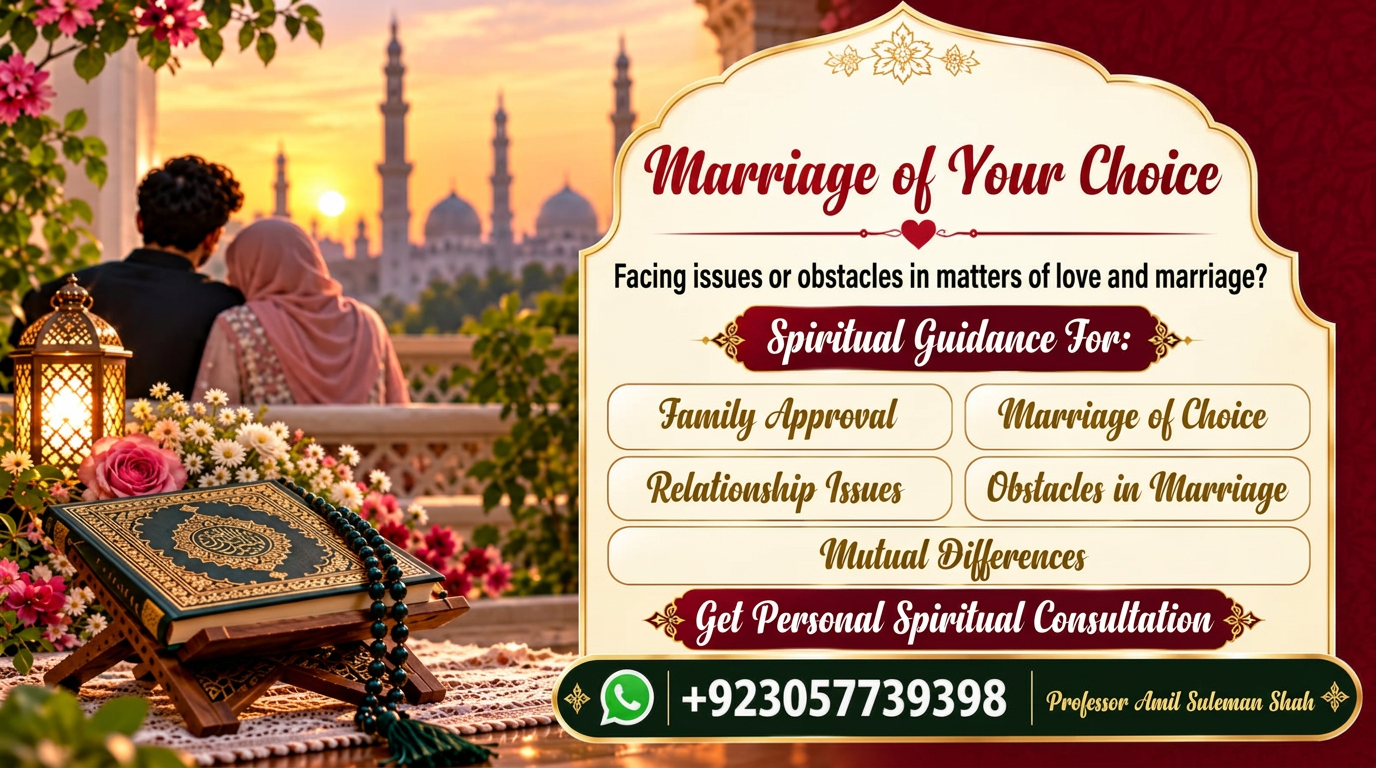
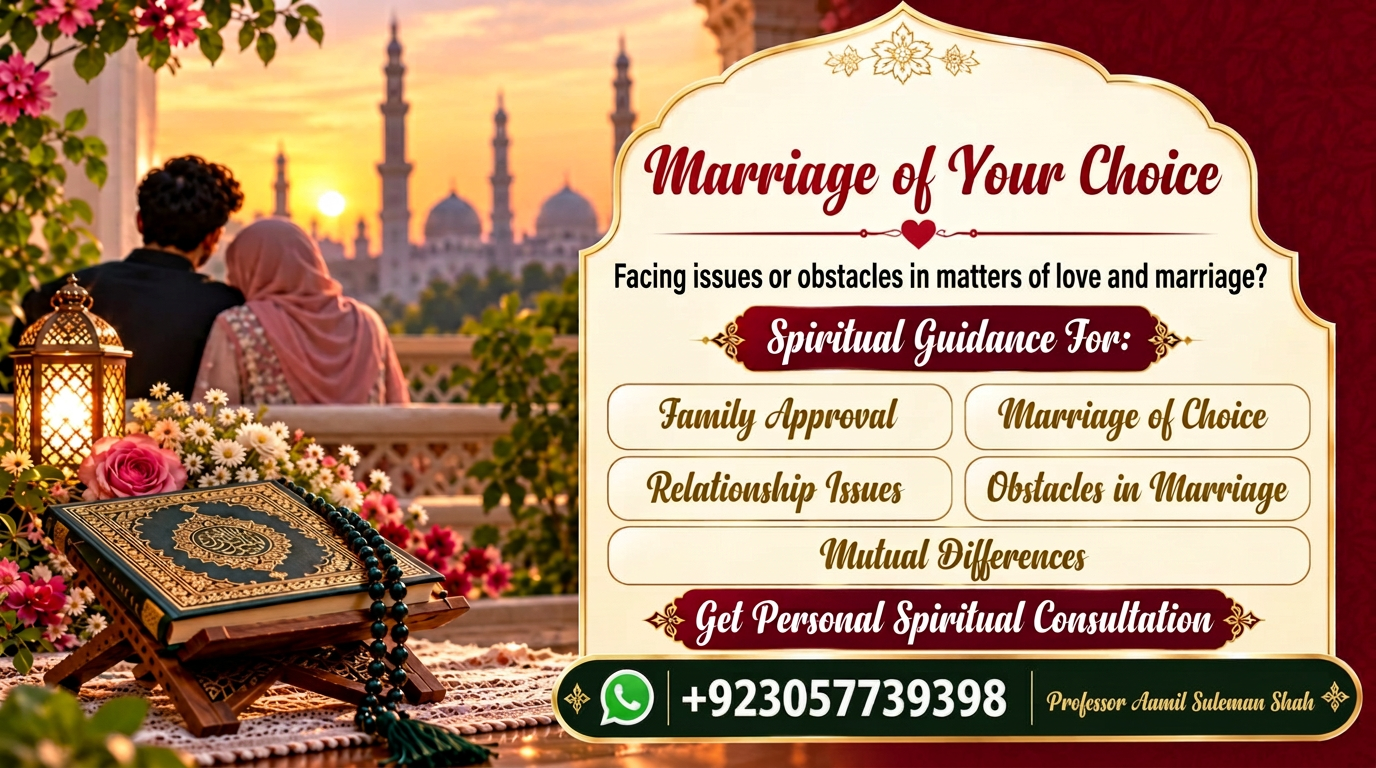
Changes

diff --git a/src/components/site.tsx b/src/components/site.tsx
@@ -1,27 +1,27 @@
 import { useState } from 'react';
 import { Link } from '@tanstack/react-router';
-import { ArrowUpLeft, BookOpen, BriefcaseBusiness, HeartHandshake, House, Menu, MessageCircle, MoonStar, Phone, Sparkles, Users, Video, X } from 'lucide-react';
+import { ArrowUpRight, BookOpen, BriefcaseBusiness, HeartHandshake, House, Menu, MessageCircle, MoonStar, Phone, Sparkles, Users, Video, X } from 'lucide-react';
 import { Button } from '@/components/ui/button';
 import { site, services } from '@/lib/site-content';
 
 export function ContactButtons({ call = true }: { call?: boolean }) {
-  return <div className="contact-buttons"><Button variant="whatsapp" size="lg" asChild><a href={site.whatsapp} target="_blank" rel="noopener noreferrer"><MessageCircle /> <span className="urdu">WhatsApp پر رابطہ کریں</span></a></Button>{call && <Button size="lg" asChild><a href={site.call}><Phone /><span className="urdu">ابھی کال کریں</span></a></Button>}</div>;
+  return <div className="contact-buttons"><Button variant="whatsapp" size="lg" asChild><a href={site.whatsapp} target="_blank" rel="noopener noreferrer"><MessageCircle /> <span>Contact Us on WhatsApp</span></a></Button>{call && <Button size="lg" asChild><a href={site.call}><Phone /><span>Call Now</span></a></Button>}</div>;
 }
-const nav = [{ to: '/', text: 'ہوم', english: 'Home' }, { to: '/services', text: 'خدمات', english: 'Services' }, { to: '/about', text: 'ہمارے بارے میں', english: 'About' }, { to: '/contact', text: 'رابطہ کریں', english: 'Contact' }] as const;
+const nav = [{ to: '/', text: 'Home' }, { to: '/services', text: 'Services' }, { to: '/about', text: 'About' }, { to: '/contact', text: 'Contact Us' }] as const;
 export function Header() {
   const [open, setOpen] = useState(false);
-  return <><div className="topbar"><span>قرآن و سنت کی روشنی میں روحانی رہنمائی</span><a href={site.call} dir="ltr"><Phone size={12} /> {site.phone}</a></div><header className="site-header"><div className="header-inner"><Link to="/" className="brand"><span className="brand-symbol"><MoonStar /></span><div><div className="brand-urdu urdu">{site.name}</div><div className="brand-english">{site.english}</div></div></Link><nav className="desktop-nav">{nav.map(n => <Link key={n.to} to={n.to} activeProps={{ className: 'nav-active' }} activeOptions={{ exact: true }}><span className="urdu">{n.text}</span><small>{n.english}</small></Link>)}</nav><Button variant="goldOutline" asChild className="header-contact"><a href={site.whatsapp} target="_blank" rel="noopener noreferrer"><MessageCircle /><span>WhatsApp</span></a></Button><Button variant="ghost" size="icon" className="mobile-menu" aria-label={open ? 'Close menu' : 'Open menu'} onClick={() => setOpen(!open)}>{open ? <X /> : <Menu />}</Button></div>{open && <nav className="mobile-nav">{nav.map(n => <Link key={n.to} to={n.to} onClick={() => setOpen(false)} className="urdu">{n.text}</Link>)}</nav>}</header></>;
+  return <><div className="topbar"><span>Spiritual guidance in the light of the Quran and Sunnah</span><a href={site.call} dir="ltr"><Phone size={12} /> {site.phone}</a></div><header className="site-header"><div className="header-inner"><Link to="/" className="brand"><span className="brand-symbol"><MoonStar /></span><div><div className="brand-name display">{site.name}</div><div className="brand-english">{site.tagline}</div></div></Link><nav className="desktop-nav">{nav.map(n => <Link key={n.to} to={n.to} activeProps={{ className: 'nav-active' }} activeOptions={{ exact: true }}><span>{n.text}</span></Link>)}</nav><Button variant="goldOutline" asChild className="header-contact"><a href={site.whatsapp} target="_blank" rel="noopener noreferrer"><MessageCircle /><span>WhatsApp</span></a></Button><Button variant="ghost" size="icon" className="mobile-menu" aria-label={open ? 'Close menu' : 'Open menu'} onClick={() => setOpen(!open)}>{open ? <X /> : <Menu />}</Button></div>{open && <nav className="mobile-nav">{nav.map(n => <Link key={n.to} to={n.to} onClick={() => setOpen(false)}>{n.text}</Link>)}</nav>}</header></>;
 }
 export function SectionHeading({ eyebrow, title, description }: { eyebrow: string; title: string; description?: string }) {
-  return <div className="section-heading"><div className="eyebrow"><span />{eyebrow}<span /></div><h2 className="urdu">{title}</h2>{description && <p className="urdu">{description}</p>}</div>;
+  return <div className="section-heading"><div className="eyebrow"><span />{eyebrow}<span /></div><h2 className="display">{title}</h2>{description && <p>{description}</p>}</div>;
 }
 const serviceIcons = [MoonStar, HeartHandshake, House, Users, BriefcaseBusiness, Video];
 export function ServiceGrid() {
-  return <div className="service-grid">{services.map((name, i) => { const Icon = serviceIcons[i] ?? BookOpen; return <a href={site.whatsapp} target="_blank" rel="noopener noreferrer" className="service-card" key={name}><Icon /><h3 className="urdu">{name}</h3><span className="service-link urdu">مشاورت کے لیے رابطہ کریں <ArrowUpLeft size={16} /></span></a>; })}</div>;
+  return <div className="service-grid">{services.map((name, i) => { const Icon = serviceIcons[i] ?? BookOpen; return <a href={site.whatsapp} target="_blank" rel="noopener noreferrer" className="service-card" key={name}><Icon /><h3 className="display">{name}</h3><span className="service-link">Contact for consultation <ArrowUpRight size={16} /></span></a>; })}</div>;
 }
 export function ContactBand() {
-  return <section className="contact-band"><Sparkles size={24} /><h2 className="urdu">رہنمائی کے لیے پہلا قدم اٹھائیں</h2><p className="urdu">اپنے معاملے پر بات کرنے کے لیے ہم سے رابطہ کریں۔</p><ContactButtons /></section>;
+  return <section className="contact-band"><Sparkles size={24} /><h2 className="display">Take the First Step Towards Guidance</h2><p>Contact us to discuss your situation.</p><ContactButtons /></section>;
 }
 export function Footer() {
-  return <><footer><div className="footer-main"><Link to="/" className="footer-brand"><MoonStar /><span className="urdu">{site.name}</span></Link><nav>{nav.map(n => <Link key={n.to} to={n.to} className="urdu">{n.text}</Link>)}</nav><a href={site.call} dir="ltr"><Phone size={15} />{site.phone}</a></div><div className="footer-bottom"><span>© 2026 {site.english}</span><span className="urdu">اسلامی روحانی رہنمائی اور مشاورت</span></div></footer><Button variant="whatsapp" size="icon" asChild className="floating-whatsapp"><a href={site.whatsapp} target="_blank" rel="noopener noreferrer" aria-label="Contact on WhatsApp"><MessageCircle /></a></Button></>;
+  return <><footer><div className="footer-main"><Link to="/" className="footer-brand"><MoonStar /><span className="display">{site.name}</span></Link><nav>{nav.map(n => <Link key={n.to} to={n.to}>{n.text}</Link>)}</nav><a href={site.call} dir="ltr"><Phone size={15} />{site.phone}</a></div><div className="footer-bottom"><span>© 2026 {site.name}</span><span>Islamic spiritual guidance and consultation</span></div></footer><Button variant="whatsapp" size="icon" asChild className="floating-whatsapp"><a href={site.whatsapp} target="_blank" rel="noopener noreferrer" aria-label="Contact on WhatsApp"><MessageCircle /></a></Button></>;
 }

diff --git a/src/routes/index.tsx b/src/routes/index.tsx
@@ -1,13 +1,13 @@
 import { createFileRoute, Link } from '@tanstack/react-router';
-import { BookOpen, MessageCircle, ShieldCheck, ArrowUpLeft } from 'lucide-react';
+import { BookOpen, MessageCircle, ShieldCheck, ArrowUpRight } from 'lucide-react';
 import { Button } from '@/components/ui/button';
 import { ContactButtons, ContactBand, SectionHeading, ServiceGrid } from '@/components/site';
 import { features, pageHead, site } from '@/lib/site-content';
 
 export const Route = createFileRoute('/')({
-  head: () => pageHead('پروفیسر عامل سلیمان شاہ | اسلامی روحانی رہنمائی', 'استخارہ، ازدواجی معاملات، گھریلو مسائل اور آن لائن روحانی مشاورت کے لیے پروفیسر عامل سلیمان شاہ سے رابطہ کریں۔'),
+  head: () => pageHead('Professor Aamil Suleman Shah | Islamic Spiritual Guidance', 'Contact Professor Aamil Suleman Shah for Istikhara, marriage and household matters, and online spiritual consultation.'),
   component: Index,
 });
 function Index() {
-  return <main><section className="home-hero"><a href={site.whatsapp} target="_blank" rel="noopener noreferrer" aria-label="Consult Professor Aamil Suleman Shah on WhatsApp"><img className="banner" src={site.banner} width={1536} height={768} alt="روحانی علاج — پروفیسر عامل سلیمان شاہ" fetchPriority="high" /></a><div className="hero-caption"><div className="eyebrow"><span />IN THE LIGHT OF QURAN & SUNNAH<span /></div><h1 className="urdu">اسلامی روحانی رہنمائی</h1><p className="urdu">زندگی کے اہم معاملات میں قرآن و سنت کی روشنی میں رہنمائی حاصل کریں۔</p><p className="supporting urdu">استخارہ، ازدواجی معاملات، گھریلو مسائل اور دیگر زندگی کے معاملات میں آن لائن مشاورت کے لیے رابطہ کریں۔</p><ContactButtons /></div></section><div className="trust-strip"><div><BookOpen /><span className="urdu">قرآن و سنت کی روشنی میں</span></div><div><ShieldCheck /><span className="urdu">ذاتی معاملات میں مشاورت</span></div><div><MessageCircle /><span className="urdu">آن لائن رابطے کی سہولت</span></div></div><section className="features"><SectionHeading eyebrow="A PATH TO GUIDANCE" title="آپ کی زندگی، آپ کے اہم معاملات" description="ہر معاملے میں سوچ سمجھ کر، رہنمائی کے ساتھ آگے بڑھیں۔" />{features.map((feature, i) => <article className="feature" key={feature.title}><div className="feature-image"><img src={feature.image} alt={feature.title} loading="lazy" width={1280} height={720} /><span className="feature-number">0{i + 1}</span></div><div className="feature-copy"><div className="eyebrow">{feature.label}</div><h3 className="urdu">{feature.title}</h3><p className="urdu">{feature.description}</p><ContactButtons call={i === 3} /></div></article>)}</section><section className="services-section"><div className="section-inner"><SectionHeading eyebrow="OUR SERVICES" title="ہماری خدمات" description="زندگی کے مختلف معاملات کے لیے روحانی رہنمائی اور مشاورت" /><ServiceGrid /></div></section><section className="about-preview"><SectionHeading eyebrow="ABOUT" title="پروفیسر عامل سلیمان شاہ کے بارے میں" /><p className="urdu">اسلامی روحانی رہنمائی، استخارہ اور زندگی کے اہم معاملات میں مشاورت کے لیے پروفیسر عامل سلیمان شاہ سے رابطہ کریں۔ اپنے معاملے پر بات کرنے کے لیے فون اور واٹس ایپ کی سہولت دستیاب ہے۔</p><Button variant="goldOutline" asChild><Link to="/about"><ArrowUpLeft /><span className="urdu">مزید جانیں</span></Link></Button></section><ContactBand /></main>;
+  return <main><section className="home-hero"><a href={site.whatsapp} target="_blank" rel="noopener noreferrer" aria-label="Consult Professor Aamil Suleman Shah on WhatsApp"><img className="banner" src={site.banner} width={1536} height={768} alt="Spiritual Healing — Professor Aamil Suleman Shah" fetchPriority="high" /></a><div className="hero-caption"><div className="eyebrow"><span />IN THE LIGHT OF QURAN & SUNNAH<span /></div><h1 className="display">Islamic Spiritual Guidance</h1><p>Receive guidance on the important matters of your life in the light of the Quran and Sunnah.</p><p className="supporting">Contact us for online consultation on Istikhara, marital matters, household problems and other life concerns.</p><ContactButtons /></div></section><div className="trust-strip"><div><BookOpen /><span>In the light of the Quran & Sunnah</span></div><div><ShieldCheck /><span>Consultation on personal matters</span></div><div><MessageCircle /><span>Online consultation available</span></div></div><section className="features"><SectionHeading eyebrow="A PATH TO GUIDANCE" title="Your Life, Your Important Matters" description="Move forward in every matter thoughtfully, with guidance." />{features.map((feature, i) => <article className="feature" key={feature.title}><div className="feature-image"><img src={feature.image} alt={feature.title} loading="lazy" width={1280} height={720} /><span className="feature-number">0{i + 1}</span></div><div className="feature-copy"><div className="eyebrow">{feature.label}</div><h3 className="display">{feature.title}</h3><p>{feature.description}</p><ContactButtons call={i === 3} /></div></article>)}</section><section className="services-section"><div className="section-inner"><SectionHeading eyebrow="OUR SERVICES" title="Our Services" description="Spiritual guidance and consultation for many areas of life" /><ServiceGrid /></div></section><section className="about-preview"><SectionHeading eyebrow="ABOUT" title="About Professor Aamil Suleman Shah" /><p>Contact Professor Aamil Suleman Shah for Islamic spiritual guidance, Istikhara and consultation on the important matters of life. Phone and WhatsApp are available to discuss your situation.</p><Button variant="goldOutline" asChild><Link to="/about"><span>Learn More</span><ArrowUpRight /></Link></Button></section><ContactBand /></main>;
 }

diff --git a/src/lib/site-content.ts b/src/lib/site-content.ts
@@ -1,17 +1,17 @@
-import banner from '@/assets/spiritual-banner.jpeg';
-import marriage from '@/assets/marriage.png';
-import family from '@/assets/family.png';
-import consultation from '@/assets/consultation.png';
+import banner from '@/assets/spiritual-banner-en.jpg';
+import marriage from '@/assets/marriage-en.jpg';
+import family from '@/assets/family-en.jpg';
+import consultation from '@/assets/consultation-en.jpg';
 import guidance from '@/assets/guidance.jpg';
 
-export const site = { name: 'پروفیسر عامل سلیمان شاہ', english: 'Professor Aamil Suleman Shah', phone: '0092 305 7739398', call: 'tel:+923057739398', whatsapp: 'https://wa.me/923057739398', banner };
+export const site = { name: 'Professor Aamil Suleman Shah', tagline: 'Islamic Spiritual Guidance', phone: '0092 305 7739398', call: 'tel:+923057739398', whatsapp: 'https://wa.me/923057739398', banner };
 export const features = [
-  { title: 'اسلامی روحانی رہنمائی', label: 'SPIRITUAL GUIDANCE', image: guidance, description: 'زندگی کے اہم معاملات میں قرآن و سنت کی روشنی میں رہنمائی اور مشاورت کے لیے رابطہ کریں۔' },
-  { title: 'استخارہ اور اہم فیصلے', label: 'ISTIKHARA & LIFE DECISIONS', image: marriage, description: 'رشتوں اور زندگی کے اہم فیصلوں کے بارے میں استخارہ اور روحانی مشاورت حاصل کریں۔' },
-  { title: 'ازدواجی اور گھریلو مسائل', label: 'MARRIAGE & FAMILY', image: family, description: 'ازدواجی معاملات، گھریلو اختلافات اور رشتوں سے متعلق مسائل پر مشاورت کے لیے رابطہ کریں۔' },
-  { title: 'آن لائن روحانی مشاورت', label: 'ONLINE CONSULTATION', image: consultation, description: 'جہاں بھی ہوں، فون یا واٹس ایپ کے ذریعے اپنے معاملے پر بات کریں اور رہنمائی حاصل کریں۔' },
+  { title: 'Spiritual Guidance', label: 'IN THE LIGHT OF QURAN & SUNNAH', image: guidance, description: 'Contact us for guidance and consultation on the important matters of your life, in the light of the Quran and Sunnah.' },
+  { title: 'Istikhara & Life Decisions', label: 'ISTIKHARA', image: marriage, description: 'Receive Istikhara and spiritual consultation for marriage proposals, relationships and other important life decisions.' },
+  { title: 'Marriage & Family Guidance', label: 'MARRIAGE & FAMILY', image: family, description: 'Get in touch for consultation on marital matters, household disagreements and relationship concerns.' },
+  { title: 'Online Consultation', label: 'ONLINE CONSULTATION', image: consultation, description: 'Wherever you are, discuss your situation by phone or WhatsApp and receive guidance.' },
 ];
-export const services = ['استخارہ', 'ازدواجی رہنمائی', 'گھریلو مسائل', 'رشتوں سے متعلق مشاورت', 'کاروباری معاملات میں رہنمائی', 'آن لائن مشاورت'];
+export const services = ['Istikhara', 'Marriage Guidance', 'Household Problems', 'Relationship Consultation', 'Business Guidance', 'Online Consultation'];
 export function pageHead(title: string, description: string) {
   return { meta: [{ title }, { name: 'description', content: description }, { property: 'og:title', content: title }, { property: 'og:description', content: description }, { property: 'og:type', content: 'website' }, { name: 'twitter:card', content: 'summary_large_image' }] };
 }

diff --git a/src/routes/about.tsx b/src/routes/about.tsx
@@ -1,5 +1,5 @@
 import { createFileRoute } from '@tanstack/react-router';
 import { ContactBand } from '@/components/site';
 import { pageHead } from '@/lib/site-content';
-export const Route = createFileRoute('/about')({ head: () => pageHead('ہمارے بارے میں | پروفیسر عامل سلیمان شاہ', 'پروفیسر عامل سلیمان شاہ سے اسلامی روحانی رہنمائی اور زندگی کے اہم معاملات پر مشاورت کے لیے رابطہ کریں۔'), component: AboutPage });
-function AboutPage() { return <main><section className="content-page"><div className="eyebrow">ABOUT PROFESSOR AAMIL SULEMAN SHAH</div><h1 className="urdu">پروفیسر عامل سلیمان شاہ کے بارے میں</h1><div className="about-content urdu"><p>اسلامی روحانی رہنمائی، استخارہ اور زندگی کے اہم معاملات میں مشاورت کے لیے پروفیسر عامل سلیمان شاہ سے رابطہ کریں۔</p><p>ازدواجی معاملات، گھریلو مسائل، رشتوں اور کاروباری معاملات میں رہنمائی حاصل کرنے کے لیے فون یا واٹس ایپ کے ذریعے اپنا معاملہ بیان کریں۔</p><h2>آن لائن مشاورت</h2><p>آن لائن رابطے کی سہولت کے ذریعے آپ جہاں بھی ہوں، مشاورت کے لیے رابطہ کر سکتے ہیں۔</p></div></section><ContactBand /></main>; }
+export const Route = createFileRoute('/about')({ head: () => pageHead('About | Professor Aamil Suleman Shah', 'Contact Professor Aamil Suleman Shah for Islamic spiritual guidance and consultation on important life matters.'), component: AboutPage });
+function AboutPage() { return <main><section className="content-page"><div className="eyebrow">ABOUT PROFESSOR AAMIL SULEMAN SHAH</div><h1 className="display">About Professor Aamil Suleman Shah</h1><div className="about-content"><p>Contact Professor Aamil Suleman Shah for Islamic spiritual guidance, Istikhara and consultation on the important matters of life.</p><p>To receive guidance on marital matters, household problems, relationships and business affairs, describe your situation by phone or WhatsApp.</p><h2 className="display">Online Consultation</h2><p>With online consultation, you can get in touch wherever you are.</p></div></section><ContactBand /></main>; }

diff --git a/src/routes/contact.tsx b/src/routes/contact.tsx
@@ -2,5 +2,5 @@ import { createFileRoute } from '@tanstack/react-router';
 import { MoonStar } from 'lucide-react';
 import { ContactButtons } from '@/components/site';
 import { pageHead, site } from '@/lib/site-content';
-export const Route = createFileRoute('/contact')({ head: () => pageHead('رابطہ کریں | پروفیسر عامل سلیمان شاہ', 'روحانی مشاورت کے لیے 0092 305 7739398 پر کال کریں یا واٹس ایپ کے ذریعے رابطہ کریں۔'), component: ContactPage });
-function ContactPage() { return <main className="content-page"><div className="eyebrow">GET IN TOUCH</div><h1 className="urdu">رابطہ کریں</h1><div className="contact-details"><MoonStar /><h2 className="urdu">{site.name}</h2><p className="urdu">مشاورت کے لیے فون یا واٹس ایپ پر رابطہ کریں۔</p><a className="phone-large" href={site.call} dir="ltr">{site.phone}</a><ContactButtons /></div></main>; }
+export const Route = createFileRoute('/contact')({ head: () => pageHead('Contact Us | Professor Aamil Suleman Shah', 'Call 0092 305 7739398 or contact us on WhatsApp for spiritual consultation.'), component: ContactPage });
+function ContactPage() { return <main className="content-page"><div className="eyebrow">GET IN TOUCH</div><h1 className="display">Contact Us</h1><div className="contact-details"><MoonStar /><h2 className="display">{site.name}</h2><p>Contact us by phone or WhatsApp for consultation.</p><a className="phone-large" href={site.call} dir="ltr">{site.phone}</a><ContactButtons /></div></main>; }

diff --git a/src/routes/services.tsx b/src/routes/services.tsx
@@ -1,5 +1,5 @@
 import { createFileRoute } from '@tanstack/react-router';
 import { ContactBand, ServiceGrid } from '@/components/site';
 import { pageHead } from '@/lib/site-content';
-export const Route = createFileRoute('/services')({ head: () => pageHead('ہماری خدمات | پروفیسر عامل سلیمان شاہ', 'استخارہ، ازدواجی رہنمائی، گھریلو مسائل، کاروباری معاملات اور آن لائن مشاورت۔'), component: ServicesPage });
-function ServicesPage() { return <main><section className="content-page"><div className="eyebrow">OUR SERVICES</div><h1 className="urdu">ہماری خدمات</h1><ServiceGrid /></section><ContactBand /></main>; }
+export const Route = createFileRoute('/services')({ head: () => pageHead('Our Services | Professor Aamil Suleman Shah', 'Istikhara, marriage guidance, household problems, relationship and business guidance, and online consultation.'), component: ServicesPage });
+function ServicesPage() { return <main><section className="content-page"><div className="eyebrow">OUR SERVICES</div><h1 className="display">Our Services</h1><ServiceGrid /></section><ContactBand /></main>; }
